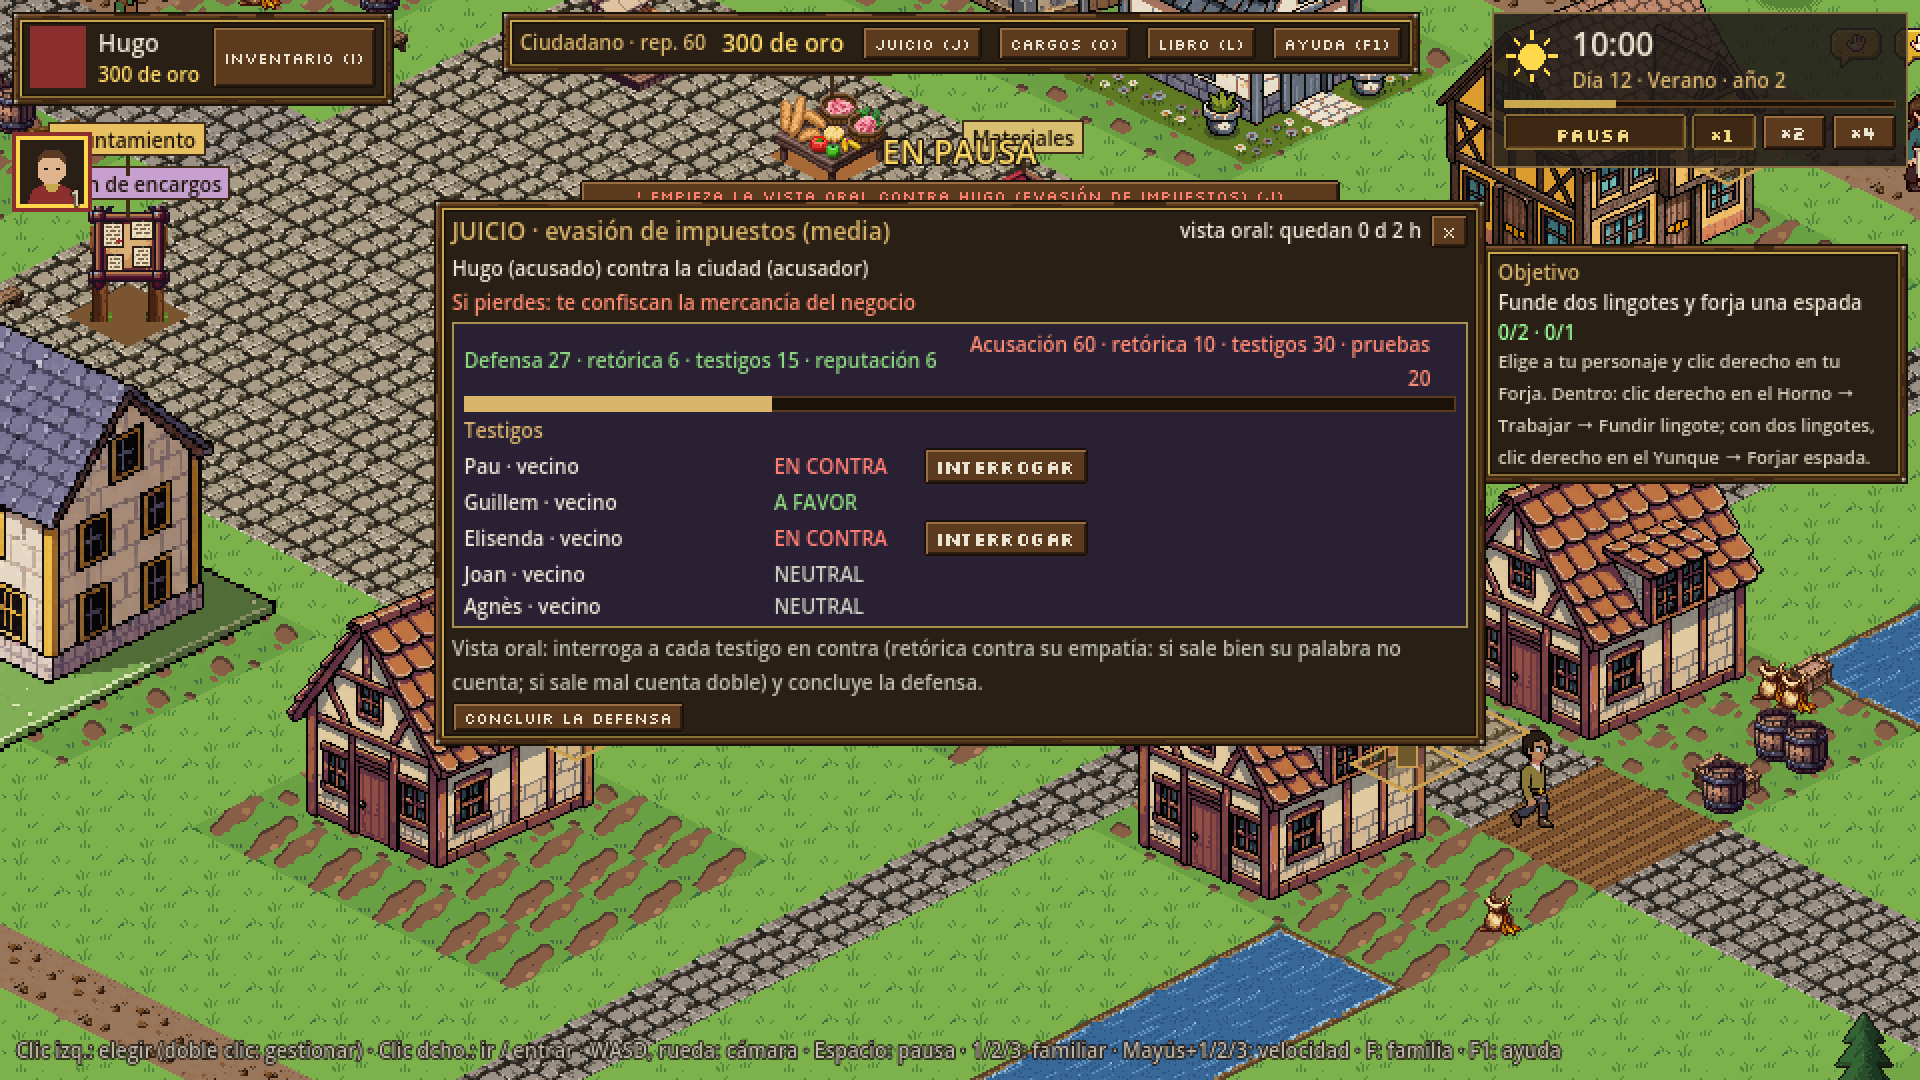
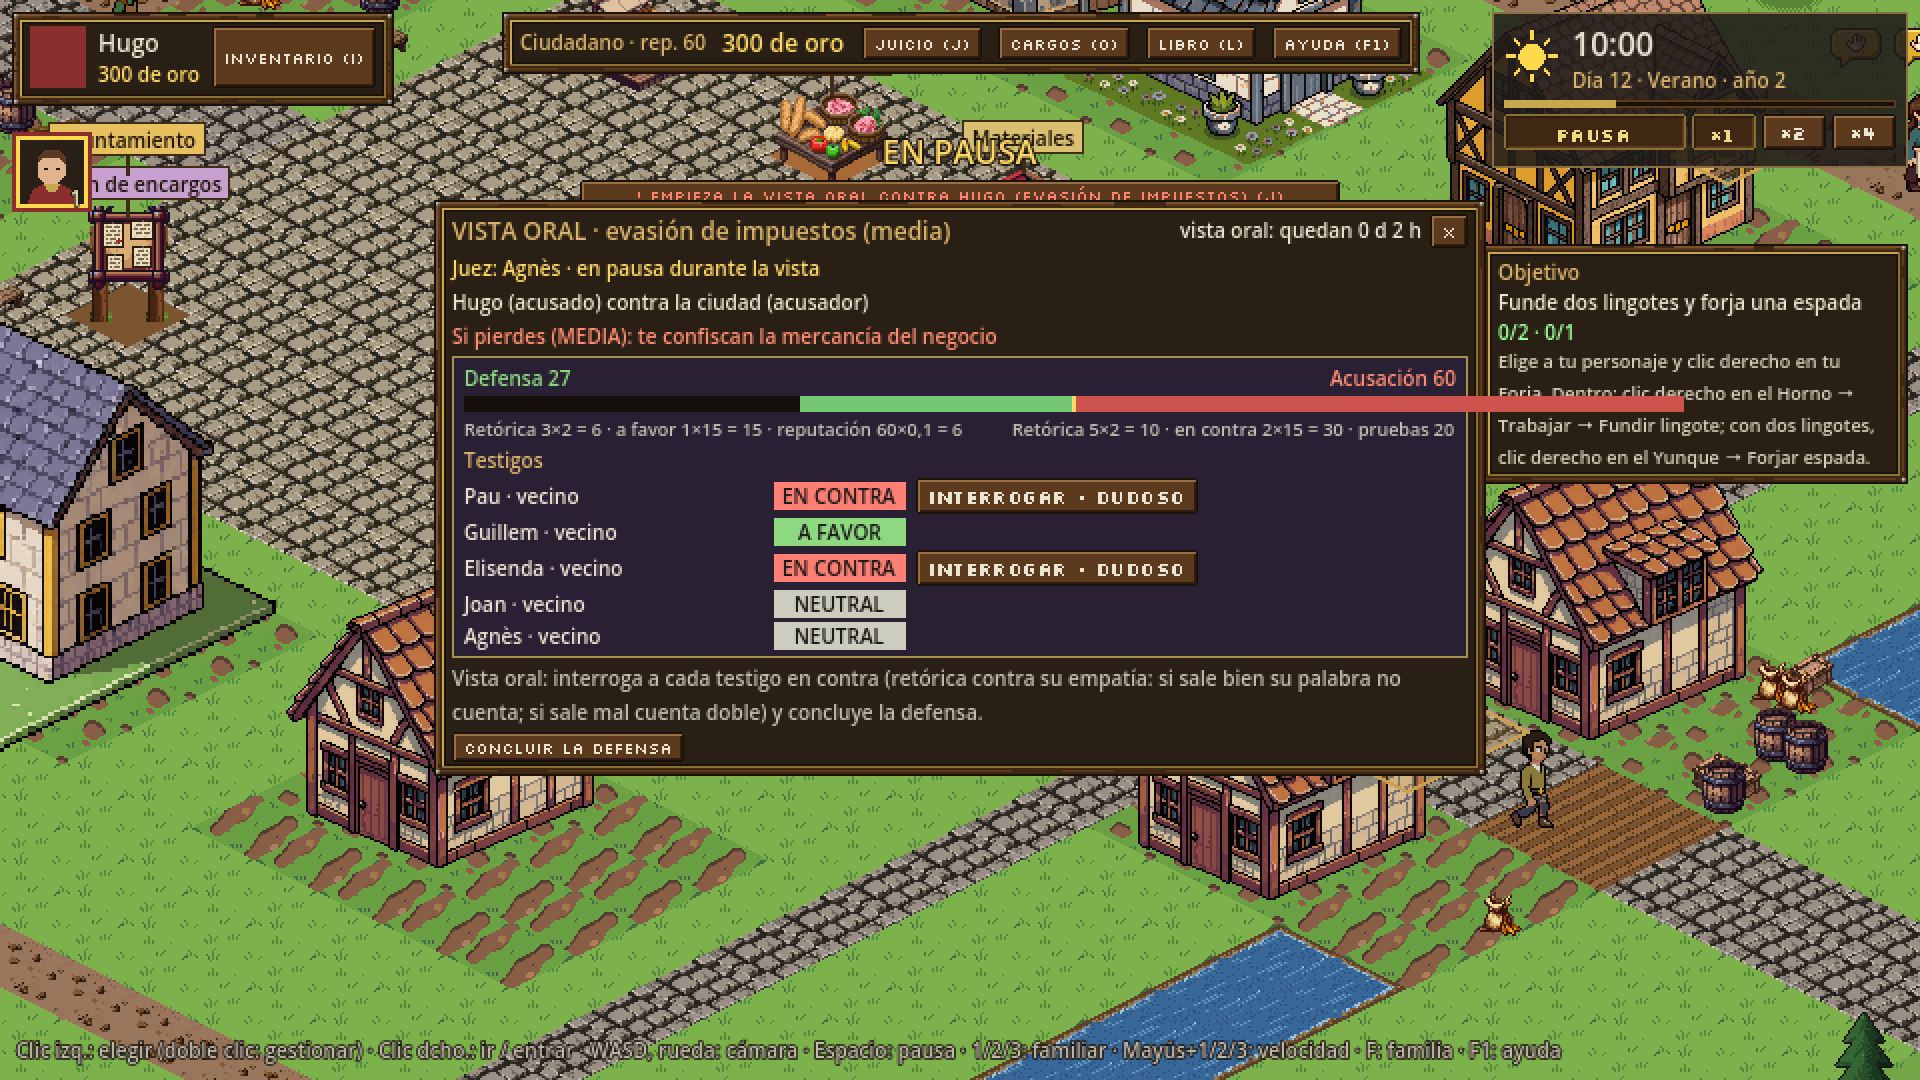
H11: decisión del owner sobre la vista oral (datos, GDD y panel según el diseño de UI)
Interrogar una vez a cada testigo en contra con Retórica: el efecto va en data/justice.json (cross.ok_weight 0,
fail_weight 2) [provisional]; pruebas del acusador «?» hasta la vista; la vista pausa el juego. Escrito en GDD 4.12.5
y en el contrato. Panel del juicio más cerca de docs/ui/mecanicas/tribunal.md: balanza centrada (defensa a la
izquierda, acusación a la derecha) con los sumandos de la fórmula, disposición en etiquetas de color, dificultad de
cada tirada en los botones (fácil / dudoso / difícil, data bands), cabecera de la vista oral con el Juez y la pausa.
Capturas regeneradas.

Changed region(s): [[0.2188, 0.1833, 0.875, 0.7333]]

diff --git a/tools/validate_content.py b/tools/validate_content.py
@@ -1255,6 +1255,12 @@ def check_h11(strings, rep):
     for k in ("prep_days", "hearing_hours", "town_rhetoric"):
         if not isinstance(t.get(k), (int, float)) or t[k] <= 0:
             rep.error(w, f"trial.{k} debe ser > 0")
+    cr = j.get("cross") or {}
+    if not all(isinstance(cr.get(k), int) and cr[k] >= 0 for k in ("ok_weight", "fail_weight")):
+        rep.error(w, "cross.ok_weight y cross.fail_weight deben ser enteros >= 0 (decisión del owner del 2026-11-02)")
+    bd = j.get("bands") or {}
+    if not (isinstance(bd.get("easy"), int) and isinstance(bd.get("doubtful"), int) and bd["easy"] > bd["doubtful"]):
+        rep.error(w, "bands: easy > doubtful (enteros)")
     for k in ("convince", "bribe", "threaten"):
         if k not in (j.get("witness_actions") or {}):
             rep.error(w, f"witness_actions.{k} falta")

diff --git a/docs/contratos/h11_tribunal.md b/docs/contratos/h11_tribunal.md
@@ -55,7 +55,8 @@ Migración 10 → 11 (`SaveFile._step`):
   - `witness_actions`: `convince` (Retórica vs Empatía; una vez al día por testigo), `bribe` (`gold_base 20` +
     `gold_per_negotiation 5` × Negociación del testigo; a favor seguro; Sigilo vs Empatía, fallo = denuncia: cargo
     extra `bribery`), `threaten` (Arte Marcial vs Arte Marcial; fallo = en contra y cargo extra `brawl`).
-  - `cross`: interrogatorio en la vista (Retórica vs Empatía): éxito, el testigo no cuenta; fallo, cuenta doble.
+  - `cross`: interrogatorio en la vista (Retórica vs Empatía), una vez por testigo en contra: su testimonio cuenta
+    `ok_weight` veces si sale bien (0) y `fail_weight` si sale mal (2) en vez de 1 [provisional, balance].
   - `accuse`: `min_title citizen`, `fabricate {stat stealth, target 5, fail_reputation -50}`, `false_reputation -50`.
   - `judge`: `manipulate_honesty -20`, `scandal {target 5, reputation -20}`.
   - `honesty`: cambios de la actitud: `bribe -5`, `fabricate -10`, `manipulate -20` [−20 GDD; el resto provisional].
@@ -153,9 +154,11 @@ disposition, actions: {kind: motivo}}], days_left, minutes_left}`, `Tribunal.acc
   `h11_veredicto`, `h11_acusar`, `h11_destierro`.
 
 ## Decisiones provisionales
-- **Vista oral interactiva = interrogar a cada testigo en contra** (opción (b) del diseño de UI): SkillCheck Retórica
-  vs Empatía; éxito no cuenta, fallo cuenta doble. Y «Concluir la defensa».
-- **Pruebas del acusador ocultas («?») hasta la vista** (opción (b) del diseño de UI).
+- **Vista oral interactiva = interrogar una vez a cada testigo en contra** (decisión del owner del 2026-11-02, opción
+  (b) del diseño de UI; apuntada en `docs/decisiones.json` de main y en GDD 4.12.5): SkillCheck Retórica vs Empatía;
+  éxito no cuenta (`cross.ok_weight 0`), fallo cuenta doble (`fail_weight 2`) [las cifras, provisionales]. Y «Concluir
+  la defensa».
+- **Pruebas del acusador ocultas («?») hasta la vista** y **la vista pausa el juego** (decisión del owner, 2026-11-02).
 - **Todos los hechos de H11 son públicos**; nada de `known` de 04c.
 - **Juicio automático tras inspección**: además de la multa de H5; acusa la ciudad (Retórica 5 o la del Inspector).
 - **Confiscación = la mercancía**: los productos a la venta del almacén (como el ladrón de H7); las materias primas se

diff --git a/docs/gdd/04_diseno_de_juego.md b/docs/gdd/04_diseno_de_juego.md
@@ -799,7 +799,13 @@ Reacciones de corta duración, separadas de la relación permanente. Intensidad 
 | Grave | Pérdida de cargo + título -1 | Corrupción, soborno descubierto |
 | Máxima | Destierro 1 año (8 días; el condenado no puede actuar en la ciudad, el resto de la familia sí) [balance] | Crimen violento, traición |
 
-La vista oral debe ser **interactiva** para el jugador (en el primer intento se autorresolvía).
+La vista oral debe ser **interactiva** para el jugador (en el primer intento se autorresolvía). **Decisión del owner
+(2026-11-02, `docs/decisiones.json`):**
+- El acusado puede **interrogar una vez a cada testigo en contra**: SkillCheck de Retórica contra la Empatía del testigo.
+  Si sale bien, su testimonio no cuenta; si sale mal, cuenta doble (`data/justice.json` → `cross.ok_weight 0` /
+  `fail_weight 2`) [provisional, balance]. Después concluye la defensa (o la vista acaba sola a las 2 h de juego).
+- Las **pruebas del acusador se ven como «?»** hasta la vista; la balanza enseña el resto de sumandos.
+- La **vista oral pausa el juego** (solo la vista; el sim no cambia: se puede seguir interrogando en pausa).
 
 #### 4.12.6 Intrigas [POST-MVP / EA]
 
